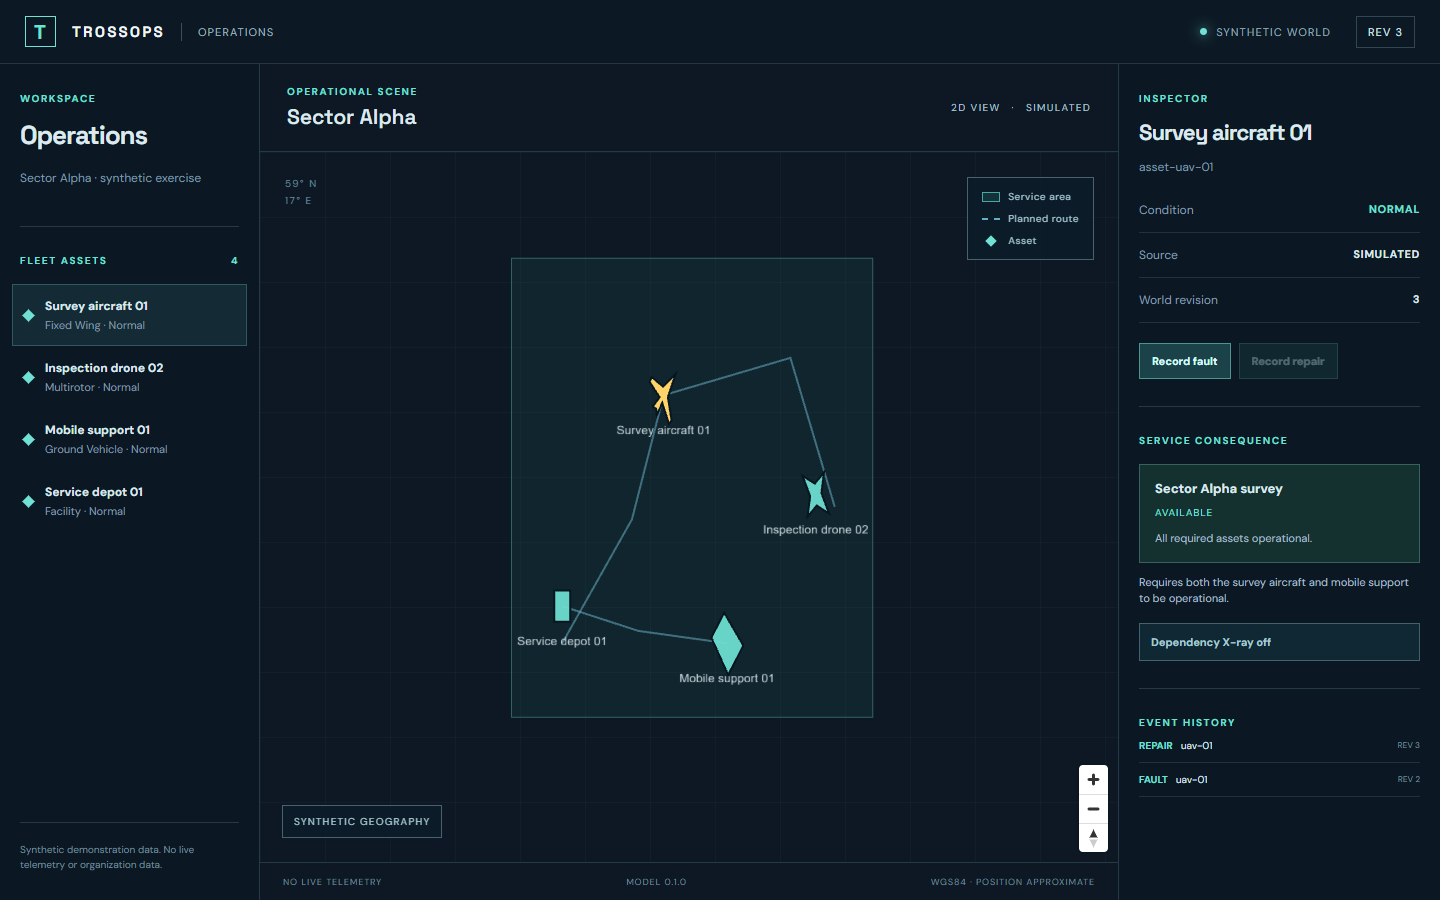
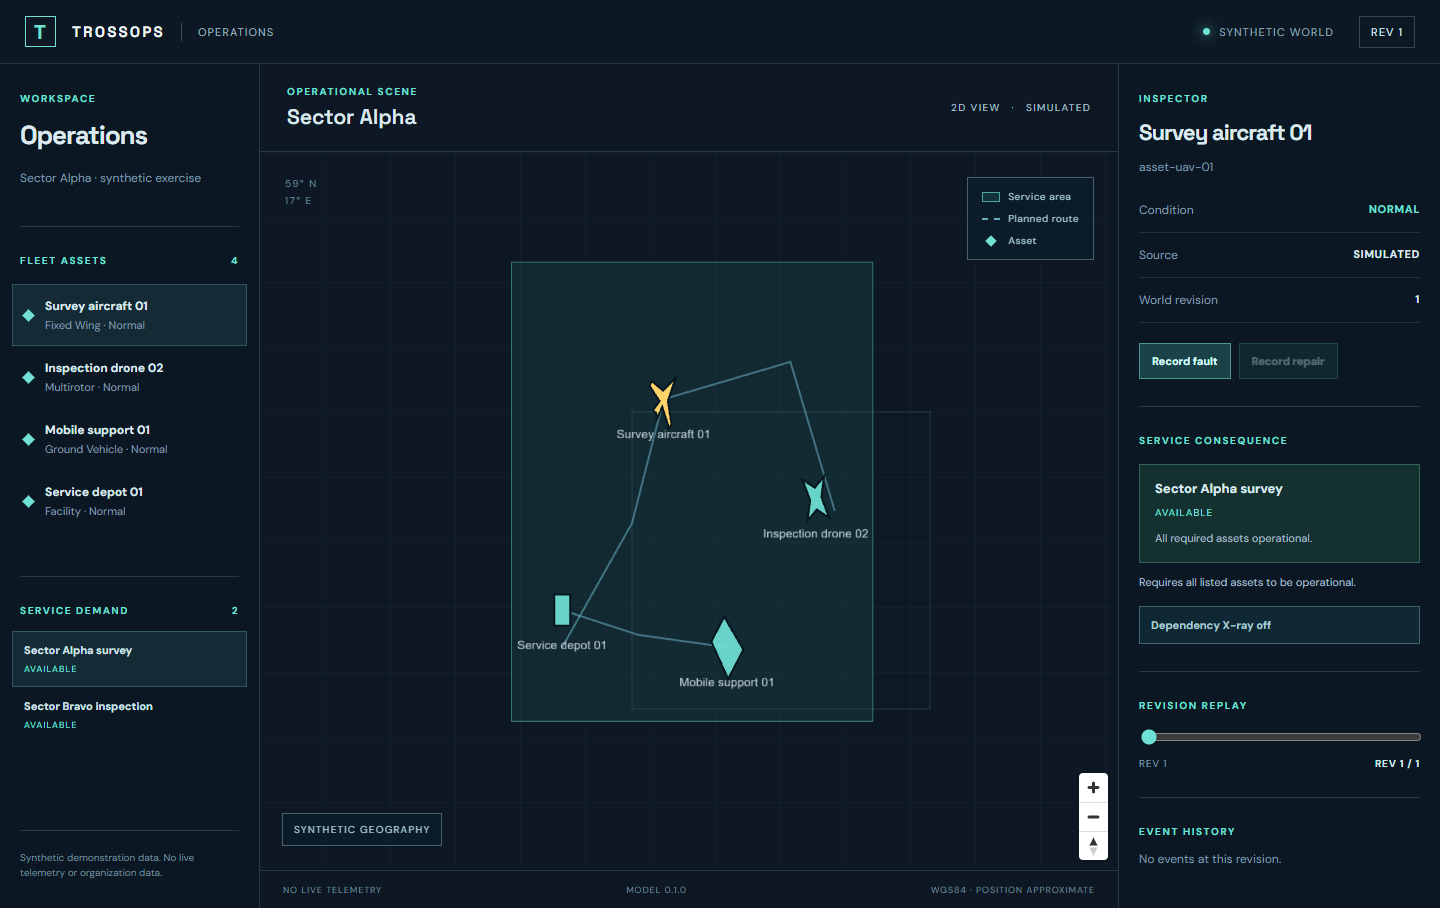
docs(geoscene): update verification and integration status

diff --git a/docs/geospatial/integration-matrix.md b/docs/geospatial/integration-matrix.md
@@ -2,9 +2,9 @@
 
 | Capability | Status | Evidence / next step |
 |---|---|---|
-| Synthetic scene API | partial | Snapshot and revision checked commands; add persistence/replay. |
-| Service consequence | partial | Backend computes a two-resource dependency; extend to general dependency graph and tests. |
-| MapLibre/deck scene | partial | GPU silhouettes, planned paths, service area, dependency toggle, and selection verified in Edge; add licensed geography, LOD, and performance measurements. |
+| Synthetic scene API | partial | Snapshot, revision checked commands, and deterministic replay; add persistence and bitemporal semantics. |
+| Service consequence | partial | Backend computes two services with a shared support dependency; extend to capacity/temporal reasoning and tests. |
+| MapLibre/deck scene | partial | GPU silhouettes, planned paths, selectable service areas, dependency toggle, revision replay, and selection verified in Edge; add licensed geography, LOD, and performance measurements. |
 | Asset/ERP records | planned | Define authorized resource API; current `resourceId` is synthetic only. |
 | NATS / SpacetimeDB | planned | Connect only after source and projection contracts exist. |
 | Telemetry | planned | Add authorized adapter, timestamp/freshness contract, and end-to-end test. |

diff --git a/docs/geospatial/verification.md b/docs/geospatial/verification.md
@@ -4,10 +4,10 @@
 
 ## Executed
 
-- `cd backend; python -m pytest -q`: **2 passed**. A synthetic support fault changes revision and computed service availability; health and scene endpoints respond.
+- `cd backend; python -m pytest -q`: **2 passed**. A synthetic support fault changes revision and both computed services; revision 1 replays its prior state; health and scene endpoints respond.
 - `cd frontend; npm.cmd run build`: **passed** with MapLibre GL JS 6.14.0. Vite reports a large 2.19 MB main JS chunk; bundle splitting remains open.
 - `cd frontend; npm.cmd audit --json`: **0 vulnerabilities** after updating MapLibre from 5.x.
-- `cd frontend; node scripts/verify-local.mjs`: **passed** in installed Edge. Page errors: **0**. Verified scene load, dependency control activation, fault command, service change, and screenshots.
+- `cd frontend; node scripts/verify-local.mjs`: **passed** in installed Edge. Page errors: **0**. Verified scene load, service selection, dependency control, fault command, service change, revision replay, return to latest, and screenshots.
 - Direct HTTP through Vite proxy: revision 1 available → support fault revision 2 unavailable with blocker → repair revision 3 available.
 
 ## Artifacts

diff --git a/docs/geospatial/baseline.md b/docs/geospatial/baseline.md
@@ -7,13 +7,13 @@ The repository began as an empty clone with instructions, a README, and the geos
 ## Current integration surfaces
 
 - `GET /api/health`: service and mode metadata.
-- `GET /api/scene`: revisioned synthetic scene snapshot, entities, computed service state, and event log.
+- `GET /api/scene?revision=N`: revisioned synthetic scene snapshot, entities, computed service states, and event log.
 - `POST /api/events`: revision checked synthetic fault/repair command.
 - Frontend scene, fleet selection, inspector, event history, and service consequence.
 
 ## Risks and limitations
 
-- State is process memory; restart resets the scenario. Multi-user persistence and replay are planned.
+- State is process memory; restart resets the scenario. Revision replay works, while multi-user persistence is planned.
 - The map uses an empty local style and synthetic positions. Licensed basemap/terrain and actual vector geography are planned.
 - Entity silhouettes are GPU polygons, not geodetically sized models. GLB assets and LOD are planned.
 - No telemetry, ERP, SpacetimeDB, NATS, Cesium, external tiles, or live integrations are connected.
